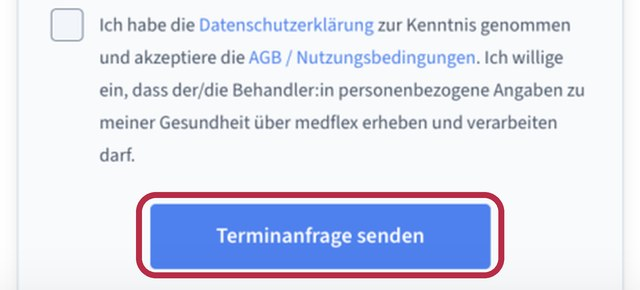
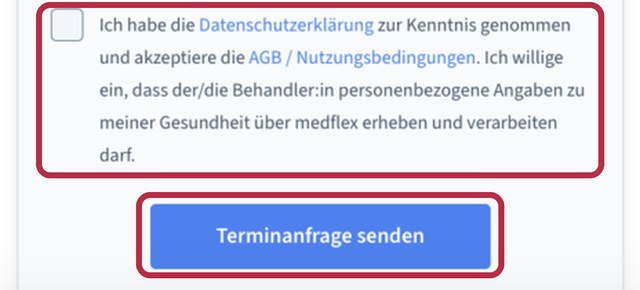
Kopf aufgeräumt, Entwurf-Hinweis oben entfernt, Haken bei AGB in den Anleitungen

diff --git a/hilfe.html b/hilfe.html
@@ -15,19 +15,17 @@
 <body>
 <a class="skip" href="#inhalt">Zum Inhalt springen</a>
 <header>
-<div class="entwurf"><div class="wrap"><strong>Entwurf.</strong> <span>Unverbindlicher Entwurf von Leon Oßendorf, kein offizieller Auftritt der MVZ Wettringen gGmbH. Formulare versenden nichts.</span></div></div>
 <div class="topbar"><div class="wrap">
   <a class="notfall" href="notfall.html">Notfall <span>112</span> Bereitschaftsdienst <span>116 117</span></a>
   <div class="werkzeuge">
-    <button type="button" id="btn-schrift" aria-pressed="false"><span class="big" aria-hidden="true">A</span> Schrift größer</button>
-    <a href="hilfe.html">Anleitungen</a>
+    <a class="tel" href="tel:+492557377"><svg viewBox="0 0 24 24" aria-hidden="true" focusable="false"><path d="M6.6 10.8a15 15 0 0 0 6.6 6.6l2.2-2.2a1 1 0 0 1 1-.25c1.1.37 2.3.57 3.6.57a1 1 0 0 1 1 1V20a1 1 0 0 1-1 1A17 17 0 0 1 3 4a1 1 0 0 1 1-1h3.5a1 1 0 0 1 1 1c0 1.25.2 2.45.57 3.57a1 1 0 0 1-.25 1L6.6 10.8z" fill="currentColor"/></svg>02557 377</a>
     <a href="leichte-sprache.html">Leichte Sprache</a>
-    <a href="karriere.html">Karriere</a>
+    <button type="button" id="btn-schrift" aria-pressed="false"><span class="big" aria-hidden="true">A</span> Schrift größer</button>
   </div>
 </div></div>
 <div class="site-header"><div class="wrap">
   <a class="brand" href="index.html"><img src="img/logo.svg" width="294" height="119" alt="MVZ Wettringen, medizinisches Versorgungszentrum Wettringen – zur Startseite"></a>
-  <nav class="site-nav" id="hauptmenue" aria-label="Hauptmenü"><ul><li><a href="index.html">Start</a></li><li><a href="sprechzeiten.html">Sprechzeiten</a></li><li><a href="termin-rezept.html">Termin &amp; Rezept</a></li><li><a href="leistungen.html">Leistungen</a></li><li><a href="team.html">Team</a></li><li><a href="karriere.html">Karriere</a></li><li><a href="ueber-uns.html">Über uns</a></li></ul></nav>
+  <nav class="site-nav" id="hauptmenue" aria-label="Hauptmenü"><ul><li><a href="index.html">Start</a></li><li><a href="sprechzeiten.html">Sprechzeiten</a></li><li><a href="termin-rezept.html">Termin &amp; Rezept</a></li><li><a href="hilfe.html" aria-current="page">Anleitungen</a></li><li><a href="leistungen.html">Leistungen</a></li><li><a href="team.html">Team</a></li><li><a href="karriere.html">Karriere</a></li><li><a href="ueber-uns.html">Über uns</a></li></ul></nav>
   <div class="aktionen">
     <a class="btn zweit" href="tel:+492557377"><svg viewBox="0 0 24 24" aria-hidden="true" focusable="false"><path d="M6.6 10.8a15 15 0 0 0 6.6 6.6l2.2-2.2a1 1 0 0 1 1-.25c1.1.37 2.3.57 3.6.57a1 1 0 0 1 1 1V20a1 1 0 0 1-1 1A17 17 0 0 1 3 4a1 1 0 0 1 1-1h3.5a1 1 0 0 1 1 1c0 1.25.2 2.45.57 3.57a1 1 0 0 1-.25 1L6.6 10.8z" fill="currentColor"/></svg>02557 377</a>
     <a class="btn" href="https://arzt.medflex.de/kontakt/hausaerztliche-versorgung-diabetologische-schwerpunktpraxis/wettringen/wettringen-mvz/v9qqqz" rel="noopener"><svg viewBox="0 0 24 24" aria-hidden="true" focusable="false"><path d="M4 4h16a1 1 0 0 1 1 1v10a1 1 0 0 1-1 1H9l-5 4V5a1 1 0 0 1 1-1z" fill="none" stroke="currentColor" stroke-width="2" stroke-linejoin="round"/></svg>Nachricht über medflex</a>
@@ -65,8 +63,8 @@
         <figure><img src="img/anleitung/a2-anliegen-waehlen.jpg" width="640" height="1020" alt="Beispielansicht: Liste mit fünf Auswahlmöglichkeiten, darunter Termin anfragen, Folgerezept anfragen und Überweisung anfragen. Die Liste und der Knopf Weiter sind markiert" loading="lazy"><figcaption>Beispielansicht: Ihr Anliegen aus der Liste antippen, dann „Weiter“.</figcaption></figure>
       </article>
       <article class="schritt">
-        <div><span class="nummer" aria-hidden="true">3</span><h3>Einmal Ihren Zugang anlegen</h3><p>Beim ersten Mal fragt medflex nach <strong>Vorname, Nachname, Geburtsdatum, Telefonnummer, E-Mail-Adresse</strong> und einem <strong>Passwort</strong> (mindestens 8 Zeichen, mit einer Zahl und einem Großbuchstaben). Haken bei der Datenschutzerklärung setzen, dann <strong>„Anfrage senden“</strong>. Das Geburtsdatum braucht das MVZ, um Sie sicher zuzuordnen.</p><p class="small leise">Tipp: Schreiben Sie sich das Passwort auf, Sie brauchen es beim nächsten Mal wieder.</p></div>
-        <figure><img src="img/anleitung/a3-zugang-anlegen.jpg" width="464" height="1024" alt="Beispielansicht: Formular mit den Feldern Vorname, Nachname, Geburtsdatum, Telefonnummer, E-Mail-Adresse und Passwort, darunter ein Haken für den Datenschutz und der Knopf zum Senden" loading="lazy"><figcaption>Beispielansicht aus der medflex-Hilfe: der Zugang in einem Schritt.</figcaption></figure>
+        <div><span class="nummer" aria-hidden="true">3</span><h3>Einmal Ihren Zugang anlegen</h3><p>Beim ersten Mal fragt medflex nach <strong>Vorname, Nachname, Geburtsdatum, Telefonnummer, E-Mail-Adresse</strong> und einem <strong>Passwort</strong> (mindestens 8 Zeichen, mit einer Zahl und einem Großbuchstaben). Setzen Sie dann den <strong>Haken bei Datenschutzerklärung und AGB</strong>. Ohne diesen Haken lässt sich die Anfrage nicht abschicken. Danach tippen Sie auf <strong>„Anfrage senden“</strong>. Das Geburtsdatum braucht das MVZ, um Sie sicher zuzuordnen.</p><p class="small leise">Tipp: Schreiben Sie sich das Passwort auf, Sie brauchen es beim nächsten Mal wieder.</p></div>
+        <figure><img src="img/anleitung/a3-zugang-anlegen.jpg" width="464" height="1024" alt="Beispielansicht: Formular mit den Feldern Vorname, Nachname, Geburtsdatum, Telefonnummer, E-Mail-Adresse und Passwort, darunter der markierte Haken für Datenschutzerklärung und AGB und der markierte Knopf zum Senden" loading="lazy"><figcaption>Beispielansicht aus der medflex-Hilfe: Haken setzen, dann abschicken.</figcaption></figure>
       </article>
       <article class="schritt">
         <div><span class="nummer" aria-hidden="true">4</span><h3>E-Mail bestätigen, fertig</h3><p>medflex schickt Ihnen eine E-Mail. Tippen Sie auf den Link darin, damit Ihr Zugang bestätigt ist. Kommt keine E-Mail, schauen Sie bitte in den Spam-Ordner.</p><p>Ihre Anfrage liegt jetzt bei uns. Wir antworten Ihnen in medflex; Sie bekommen dazu eine Nachricht per E-Mail oder in der App.</p></div>
@@ -115,8 +113,8 @@
         <figure><img src="img/anleitung/a2-termin-waehlen.jpg" width="640" height="1020" alt="Beispielansicht: Auswahl des Anliegens bei medflex, Termin anfragen / ändern und der Knopf Weiter sind markiert" loading="lazy"><figcaption>Beispielansicht: Ohne Zugang wählen Sie hier „Termin anfragen / ändern“, dann „Weiter“.</figcaption></figure>
       </article>
       <article class="schritt">
-        <div><span class="nummer" aria-hidden="true">3</span><h3>Abschicken, wir antworten mit dem Termin</h3><p>Sie bekommen den Terminvorschlag in medflex. Für Termine am selben Tag rufen Sie bitte morgens ab 7:30 Uhr oder nachmittags ab 14:30 Uhr an: <a href="tel:+492557377">02557 377</a>.</p><div class="hinweis"><p>Notfälle bitte nie über medflex. In Lebensgefahr: 112. Außerhalb der Sprechzeiten: 116 117.</p></div></div>
-        <figure><img src="img/anleitung/a8-termin-senden.jpg" width="640" height="290" alt="Beispielansicht: unten im Formular ist der Knopf Terminanfrage senden markiert" loading="lazy"><figcaption>Beispielansicht aus der medflex-Hilfe: der Knopf zum Abschicken.</figcaption></figure>
+        <div><span class="nummer" aria-hidden="true">3</span><h3>Abschicken, wir antworten mit dem Termin</h3><p>Beim ersten Mal setzen Sie vor dem Abschicken den <strong>Haken bei Datenschutzerklärung und AGB</strong>. Danach tippen Sie auf <strong>„Terminanfrage senden“</strong>. Den Terminvorschlag bekommen Sie in medflex. Für Termine am selben Tag rufen Sie bitte morgens ab 7:30 Uhr oder nachmittags ab 14:30 Uhr an: <a href="tel:+492557377">02557 377</a>.</p><div class="hinweis"><p>Notfälle bitte nie über medflex. In Lebensgefahr: 112. Außerhalb der Sprechzeiten: 116 117.</p></div></div>
+        <figure><img src="img/anleitung/a8-termin-senden.jpg" width="640" height="290" alt="Beispielansicht: unten im Formular sind der Haken für Datenschutzerklärung und AGB und der Knopf Terminanfrage senden markiert" loading="lazy"><figcaption>Beispielansicht aus der medflex-Hilfe: Haken setzen, dann abschicken.</figcaption></figure>
       </article>
     </div>
   </div>

diff --git a/css/style.css b/css/style.css
@@ -69,36 +69,38 @@ hr { border: 0; border-top: 1px solid var(--linie); margin: 2rem 0; }
 /* Kopf */
 .skip { position: absolute; left: 1rem; top: -4rem; background: var(--dunkel); color: #fff; padding: 0.6em 1em; border-radius: 0 0 var(--radius) var(--radius); z-index: 100; text-decoration: none; font-weight: 650; }
 .skip:focus { top: 0; }
-.entwurf { background: var(--greige); color: var(--text); font-size: 0.88rem; padding: 0.45rem 0; border-bottom: 1px solid var(--linie); }
-.entwurf .wrap { display: flex; gap: 0.5em; flex-wrap: wrap; }
 .topbar { background: var(--dunkel); color: #fff; font-size: 0.92rem; }
 .topbar .wrap { display: flex; flex-wrap: wrap; align-items: center; justify-content: space-between; gap: 0.3rem 1.2rem; min-height: 2.6rem; padding-block: 0.25rem; }
 .topbar a { color: #fff; }
 .topbar .notfall { display: inline-flex; align-items: center; gap: 0.6em; font-weight: 650; text-decoration: none; }
 .topbar .notfall span { background: #fff; color: var(--dunkel); border-radius: 6px; padding: 0 0.4em; font-weight: 800; }
-.topbar .werkzeuge { display: flex; flex-wrap: wrap; align-items: center; gap: 0.2rem 1.1rem; }
+.topbar .werkzeuge { display: flex; flex-wrap: wrap; align-items: center; gap: 0.2rem 1.4rem; }
+.topbar .tel { display: inline-flex; align-items: center; gap: 0.4em; font-weight: 650; text-decoration: none; }
+.topbar .tel svg { width: 1em; height: 1em; }
 .topbar button { background: transparent; border: 1px solid rgba(255,255,255,0.55); color: #fff; border-radius: 999px; padding: 0.2em 0.8em; font: inherit; cursor: pointer; display: inline-flex; align-items: center; gap: 0.4em; }
 .topbar button[aria-pressed="true"] { background: #fff; color: var(--dunkel); }
 .topbar button .big { font-family: var(--serif); font-size: 1.25em; line-height: 1; }
 .site-header { background: var(--weiss); border-bottom: 1px solid var(--linie); position: relative; z-index: 20; }
-.site-header .wrap { display: grid; grid-template-columns: auto 1fr auto; align-items: center; gap: 0.8rem 1.5rem; padding-block: 0.8rem; }
+.site-header .wrap { display: grid; grid-template-columns: auto 1fr; align-items: center; gap: 0.5rem 1.5rem; padding-block: 0.7rem 0.4rem; }
 .brand { display: block; line-height: 0; }
 .brand img { height: 64px; width: auto; }
-.site-nav ul { list-style: none; margin: 0; padding: 0; display: flex; flex-wrap: wrap; gap: 0.1rem 0.2rem; }
+.site-nav { grid-row: 2; grid-column: 1 / -1; border-top: 1px solid var(--linie); padding-top: 0.35rem; }
+.site-nav ul { list-style: none; margin: 0; padding: 0; display: flex; flex-wrap: wrap; justify-content: space-between; gap: 0.1rem 0.1rem; }
 .site-nav a { display: inline-block; padding: 0.45em 0.6em; border-radius: 8px; text-decoration: none; color: var(--text); font-weight: 560; }
 .site-nav a:hover { background: var(--greige-hell); }
 .site-nav a[aria-current="page"] { background: var(--rot-hell); color: var(--rot-text); }
 .aktionen { display: flex; gap: 0.6rem; flex-wrap: wrap; justify-content: flex-end; }
+.aktionen .zweit { display: none; }
 .nav-toggle { display: none; }
-@media (max-width: 1180px) {
-  .site-header .wrap { grid-template-columns: auto 1fr; }
-  .site-nav { grid-column: 1 / -1; border-top: 1px solid var(--linie); padding-top: 0.4rem; }
-  .site-nav ul { justify-content: flex-start; }
+@media (max-width: 1240px) {
   .brand img { height: 56px; }
 }
 @media (max-width: 720px) {
   .site-header .wrap { grid-template-columns: 1fr auto; }
+  .site-nav { grid-row: 3; border-top: 0; padding-top: 0; }
   .aktionen { grid-row: 2; grid-column: 1 / -1; justify-content: stretch; }
+  .aktionen .zweit { display: inline-flex; }
+  .topbar .tel { display: none; }
   .aktionen .btn { flex: 1 1 0; justify-content: center; font-size: 0.95rem; padding: 0.55em 0.8em; }
   .nav-toggle { display: inline-flex; align-items: center; gap: 0.5em; background: var(--weiss); border: 2px solid var(--dunkel); border-radius: 999px; padding: 0.5em 1em; font: inherit; font-weight: 650; min-height: 3rem; cursor: pointer; }
   .nav-toggle::before { content: "☰"; }
@@ -288,7 +290,7 @@ footer .entwurf-hinweis { margin-top: 1.5rem; padding-top: 1rem; border-top: 1px
 .leicht h2 { margin-top: 1.5em; }
 
 /* Druck */
-@media print { .entwurf, .topbar, .nav-toggle, .site-nav, .aktionen, .btn, footer .spalten { display: none !important; } body { background: #fff; } }
+@media print { .topbar, .nav-toggle, .site-nav, .aktionen, .btn, footer .spalten { display: none !important; } body { background: #fff; } }
 
 /* ===== Hero: das Kreuz aus Bild, rotem Balken (Titel) und grauem Balken (heute) ===== */
 .hero2 { padding: 1.5rem 0 2rem; overflow: hidden; }

diff --git a/index.html b/index.html
@@ -15,19 +15,17 @@
 <body>
 <a class="skip" href="#inhalt">Zum Inhalt springen</a>
 <header>
-<div class="entwurf"><div class="wrap"><strong>Entwurf.</strong> <span>Unverbindlicher Entwurf von Leon Oßendorf, kein offizieller Auftritt der MVZ Wettringen gGmbH. Formulare versenden nichts.</span></div></div>
 <div class="topbar"><div class="wrap">
   <a class="notfall" href="notfall.html">Notfall <span>112</span> Bereitschaftsdienst <span>116 117</span></a>
   <div class="werkzeuge">
-    <button type="button" id="btn-schrift" aria-pressed="false"><span class="big" aria-hidden="true">A</span> Schrift größer</button>
-    <a href="hilfe.html">Anleitungen</a>
+    <a class="tel" href="tel:+492557377"><svg viewBox="0 0 24 24" aria-hidden="true" focusable="false"><path d="M6.6 10.8a15 15 0 0 0 6.6 6.6l2.2-2.2a1 1 0 0 1 1-.25c1.1.37 2.3.57 3.6.57a1 1 0 0 1 1 1V20a1 1 0 0 1-1 1A17 17 0 0 1 3 4a1 1 0 0 1 1-1h3.5a1 1 0 0 1 1 1c0 1.25.2 2.45.57 3.57a1 1 0 0 1-.25 1L6.6 10.8z" fill="currentColor"/></svg>02557 377</a>
     <a href="leichte-sprache.html">Leichte Sprache</a>
-    <a href="karriere.html">Karriere</a>
+    <button type="button" id="btn-schrift" aria-pressed="false"><span class="big" aria-hidden="true">A</span> Schrift größer</button>
   </div>
 </div></div>
 <div class="site-header"><div class="wrap">
   <a class="brand" href="index.html"><img src="img/logo.svg" width="294" height="119" alt="MVZ Wettringen, medizinisches Versorgungszentrum Wettringen – zur Startseite"></a>
-  <nav class="site-nav" id="hauptmenue" aria-label="Hauptmenü"><ul><li><a href="index.html" aria-current="page">Start</a></li><li><a href="sprechzeiten.html">Sprechzeiten</a></li><li><a href="termin-rezept.html">Termin &amp; Rezept</a></li><li><a href="leistungen.html">Leistungen</a></li><li><a href="team.html">Team</a></li><li><a href="karriere.html">Karriere</a></li><li><a href="ueber-uns.html">Über uns</a></li></ul></nav>
+  <nav class="site-nav" id="hauptmenue" aria-label="Hauptmenü"><ul><li><a href="index.html" aria-current="page">Start</a></li><li><a href="sprechzeiten.html">Sprechzeiten</a></li><li><a href="termin-rezept.html">Termin &amp; Rezept</a></li><li><a href="hilfe.html">Anleitungen</a></li><li><a href="leistungen.html">Leistungen</a></li><li><a href="team.html">Team</a></li><li><a href="karriere.html">Karriere</a></li><li><a href="ueber-uns.html">Über uns</a></li></ul></nav>
   <div class="aktionen">
     <a class="btn zweit" href="tel:+492557377"><svg viewBox="0 0 24 24" aria-hidden="true" focusable="false"><path d="M6.6 10.8a15 15 0 0 0 6.6 6.6l2.2-2.2a1 1 0 0 1 1-.25c1.1.37 2.3.57 3.6.57a1 1 0 0 1 1 1V20a1 1 0 0 1-1 1A17 17 0 0 1 3 4a1 1 0 0 1 1-1h3.5a1 1 0 0 1 1 1c0 1.25.2 2.45.57 3.57a1 1 0 0 1-.25 1L6.6 10.8z" fill="currentColor"/></svg>02557 377</a>
     <a class="btn" href="https://arzt.medflex.de/kontakt/hausaerztliche-versorgung-diabetologische-schwerpunktpraxis/wettringen/wettringen-mvz/v9qqqz" rel="noopener"><svg viewBox="0 0 24 24" aria-hidden="true" focusable="false"><path d="M4 4h16a1 1 0 0 1 1 1v10a1 1 0 0 1-1 1H9l-5 4V5a1 1 0 0 1 1-1z" fill="none" stroke="currentColor" stroke-width="2" stroke-linejoin="round"/></svg>Nachricht über medflex</a>

diff --git a/karriere.html b/karriere.html
@@ -15,19 +15,17 @@
 <body>
 <a class="skip" href="#inhalt">Zum Inhalt springen</a>
 <header>
-<div class="entwurf"><div class="wrap"><strong>Entwurf.</strong> <span>Unverbindlicher Entwurf von Leon Oßendorf, kein offizieller Auftritt der MVZ Wettringen gGmbH. Formulare versenden nichts.</span></div></div>
 <div class="topbar"><div class="wrap">
   <a class="notfall" href="notfall.html">Notfall <span>112</span> Bereitschaftsdienst <span>116 117</span></a>
   <div class="werkzeuge">
-    <button type="button" id="btn-schrift" aria-pressed="false"><span class="big" aria-hidden="true">A</span> Schrift größer</button>
-    <a href="hilfe.html">Anleitungen</a>
+    <a class="tel" href="tel:+492557377"><svg viewBox="0 0 24 24" aria-hidden="true" focusable="false"><path d="M6.6 10.8a15 15 0 0 0 6.6 6.6l2.2-2.2a1 1 0 0 1 1-.25c1.1.37 2.3.57 3.6.57a1 1 0 0 1 1 1V20a1 1 0 0 1-1 1A17 17 0 0 1 3 4a1 1 0 0 1 1-1h3.5a1 1 0 0 1 1 1c0 1.25.2 2.45.57 3.57a1 1 0 0 1-.25 1L6.6 10.8z" fill="currentColor"/></svg>02557 377</a>
     <a href="leichte-sprache.html">Leichte Sprache</a>
-    <a href="karriere.html">Karriere</a>
+    <button type="button" id="btn-schrift" aria-pressed="false"><span class="big" aria-hidden="true">A</span> Schrift größer</button>
   </div>
 </div></div>
 <div class="site-header"><div class="wrap">
   <a class="brand" href="index.html"><img src="img/logo.svg" width="294" height="119" alt="MVZ Wettringen, medizinisches Versorgungszentrum Wettringen – zur Startseite"></a>
-  <nav class="site-nav" id="hauptmenue" aria-label="Hauptmenü"><ul><li><a href="index.html">Start</a></li><li><a href="sprechzeiten.html">Sprechzeiten</a></li><li><a href="termin-rezept.html">Termin &amp; Rezept</a></li><li><a href="leistungen.html">Leistungen</a></li><li><a href="team.html">Team</a></li><li><a href="karriere.html" aria-current="page">Karriere</a></li><li><a href="ueber-uns.html">Über uns</a></li></ul></nav>
+  <nav class="site-nav" id="hauptmenue" aria-label="Hauptmenü"><ul><li><a href="index.html">Start</a></li><li><a href="sprechzeiten.html">Sprechzeiten</a></li><li><a href="termin-rezept.html">Termin &amp; Rezept</a></li><li><a href="hilfe.html">Anleitungen</a></li><li><a href="leistungen.html">Leistungen</a></li><li><a href="team.html">Team</a></li><li><a href="karriere.html" aria-current="page">Karriere</a></li><li><a href="ueber-uns.html">Über uns</a></li></ul></nav>
   <div class="aktionen">
     <a class="btn zweit" href="tel:+492557377"><svg viewBox="0 0 24 24" aria-hidden="true" focusable="false"><path d="M6.6 10.8a15 15 0 0 0 6.6 6.6l2.2-2.2a1 1 0 0 1 1-.25c1.1.37 2.3.57 3.6.57a1 1 0 0 1 1 1V20a1 1 0 0 1-1 1A17 17 0 0 1 3 4a1 1 0 0 1 1-1h3.5a1 1 0 0 1 1 1c0 1.25.2 2.45.57 3.57a1 1 0 0 1-.25 1L6.6 10.8z" fill="currentColor"/></svg>02557 377</a>
     <a class="btn" href="https://arzt.medflex.de/kontakt/hausaerztliche-versorgung-diabetologische-schwerpunktpraxis/wettringen/wettringen-mvz/v9qqqz" rel="noopener"><svg viewBox="0 0 24 24" aria-hidden="true" focusable="false"><path d="M4 4h16a1 1 0 0 1 1 1v10a1 1 0 0 1-1 1H9l-5 4V5a1 1 0 0 1 1-1z" fill="none" stroke="currentColor" stroke-width="2" stroke-linejoin="round"/></svg>Nachricht über medflex</a>

diff --git a/leistungen.html b/leistungen.html
@@ -15,19 +15,17 @@
 <body>
 <a class="skip" href="#inhalt">Zum Inhalt springen</a>
 <header>
-<div class="entwurf"><div class="wrap"><strong>Entwurf.</strong> <span>Unverbindlicher Entwurf von Leon Oßendorf, kein offizieller Auftritt der MVZ Wettringen gGmbH. Formulare versenden nichts.</span></div></div>
 <div class="topbar"><div class="wrap">
   <a class="notfall" href="notfall.html">Notfall <span>112</span> Bereitschaftsdienst <span>116 117</span></a>
   <div class="werkzeuge">
-    <button type="button" id="btn-schrift" aria-pressed="false"><span class="big" aria-hidden="true">A</span> Schrift größer</button>
-    <a href="hilfe.html">Anleitungen</a>
+    <a class="tel" href="tel:+492557377"><svg viewBox="0 0 24 24" aria-hidden="true" focusable="false"><path d="M6.6 10.8a15 15 0 0 0 6.6 6.6l2.2-2.2a1 1 0 0 1 1-.25c1.1.37 2.3.57 3.6.57a1 1 0 0 1 1 1V20a1 1 0 0 1-1 1A17 17 0 0 1 3 4a1 1 0 0 1 1-1h3.5a1 1 0 0 1 1 1c0 1.25.2 2.45.57 3.57a1 1 0 0 1-.25 1L6.6 10.8z" fill="currentColor"/></svg>02557 377</a>
     <a href="leichte-sprache.html">Leichte Sprache</a>
-    <a href="karriere.html">Karriere</a>
+    <button type="button" id="btn-schrift" aria-pressed="false"><span class="big" aria-hidden="true">A</span> Schrift größer</button>
   </div>
 </div></div>
 <div class="site-header"><div class="wrap">
   <a class="brand" href="index.html"><img src="img/logo.svg" width="294" height="119" alt="MVZ Wettringen, medizinisches Versorgungszentrum Wettringen – zur Startseite"></a>
-  <nav class="site-nav" id="hauptmenue" aria-label="Hauptmenü"><ul><li><a href="index.html">Start</a></li><li><a href="sprechzeiten.html">Sprechzeiten</a></li><li><a href="termin-rezept.html">Termin &amp; Rezept</a></li><li><a href="leistungen.html" aria-current="page">Leistungen</a></li><li><a href="team.html">Team</a></li><li><a href="karriere.html">Karriere</a></li><li><a href="ueber-uns.html">Über uns</a></li></ul></nav>
+  <nav class="site-nav" id="hauptmenue" aria-label="Hauptmenü"><ul><li><a href="index.html">Start</a></li><li><a href="sprechzeiten.html">Sprechzeiten</a></li><li><a href="termin-rezept.html">Termin &amp; Rezept</a></li><li><a href="hilfe.html">Anleitungen</a></li><li><a href="leistungen.html" aria-current="page">Leistungen</a></li><li><a href="team.html">Team</a></li><li><a href="karriere.html">Karriere</a></li><li><a href="ueber-uns.html">Über uns</a></li></ul></nav>
   <div class="aktionen">
     <a class="btn zweit" href="tel:+492557377"><svg viewBox="0 0 24 24" aria-hidden="true" focusable="false"><path d="M6.6 10.8a15 15 0 0 0 6.6 6.6l2.2-2.2a1 1 0 0 1 1-.25c1.1.37 2.3.57 3.6.57a1 1 0 0 1 1 1V20a1 1 0 0 1-1 1A17 17 0 0 1 3 4a1 1 0 0 1 1-1h3.5a1 1 0 0 1 1 1c0 1.25.2 2.45.57 3.57a1 1 0 0 1-.25 1L6.6 10.8z" fill="currentColor"/></svg>02557 377</a>
     <a class="btn" href="https://arzt.medflex.de/kontakt/hausaerztliche-versorgung-diabetologische-schwerpunktpraxis/wettringen/wettringen-mvz/v9qqqz" rel="noopener"><svg viewBox="0 0 24 24" aria-hidden="true" focusable="false"><path d="M4 4h16a1 1 0 0 1 1 1v10a1 1 0 0 1-1 1H9l-5 4V5a1 1 0 0 1 1-1z" fill="none" stroke="currentColor" stroke-width="2" stroke-linejoin="round"/></svg>Nachricht über medflex</a>

diff --git a/sprechzeiten.html b/sprechzeiten.html
@@ -15,19 +15,17 @@
 <body>
 <a class="skip" href="#inhalt">Zum Inhalt springen</a>
 <header>
-<div class="entwurf"><div class="wrap"><strong>Entwurf.</strong> <span>Unverbindlicher Entwurf von Leon Oßendorf, kein offizieller Auftritt der MVZ Wettringen gGmbH. Formulare versenden nichts.</span></div></div>
 <div class="topbar"><div class="wrap">
   <a class="notfall" href="notfall.html">Notfall <span>112</span> Bereitschaftsdienst <span>116 117</span></a>
   <div class="werkzeuge">
-    <button type="button" id="btn-schrift" aria-pressed="false"><span class="big" aria-hidden="true">A</span> Schrift größer</button>
-    <a href="hilfe.html">Anleitungen</a>
+    <a class="tel" href="tel:+492557377"><svg viewBox="0 0 24 24" aria-hidden="true" focusable="false"><path d="M6.6 10.8a15 15 0 0 0 6.6 6.6l2.2-2.2a1 1 0 0 1 1-.25c1.1.37 2.3.57 3.6.57a1 1 0 0 1 1 1V20a1 1 0 0 1-1 1A17 17 0 0 1 3 4a1 1 0 0 1 1-1h3.5a1 1 0 0 1 1 1c0 1.25.2 2.45.57 3.57a1 1 0 0 1-.25 1L6.6 10.8z" fill="currentColor"/></svg>02557 377</a>
     <a href="leichte-sprache.html">Leichte Sprache</a>
-    <a href="karriere.html">Karriere</a>
+    <button type="button" id="btn-schrift" aria-pressed="false"><span class="big" aria-hidden="true">A</span> Schrift größer</button>
   </div>
 </div></div>
 <div class="site-header"><div class="wrap">
   <a class="brand" href="index.html"><img src="img/logo.svg" width="294" height="119" alt="MVZ Wettringen, medizinisches Versorgungszentrum Wettringen – zur Startseite"></a>
-  <nav class="site-nav" id="hauptmenue" aria-label="Hauptmenü"><ul><li><a href="index.html">Start</a></li><li><a href="sprechzeiten.html" aria-current="page">Sprechzeiten</a></li><li><a href="termin-rezept.html">Termin &amp; Rezept</a></li><li><a href="leistungen.html">Leistungen</a></li><li><a href="team.html">Team</a></li><li><a href="karriere.html">Karriere</a></li><li><a href="ueber-uns.html">Über uns</a></li></ul></nav>
+  <nav class="site-nav" id="hauptmenue" aria-label="Hauptmenü"><ul><li><a href="index.html">Start</a></li><li><a href="sprechzeiten.html" aria-current="page">Sprechzeiten</a></li><li><a href="termin-rezept.html">Termin &amp; Rezept</a></li><li><a href="hilfe.html">Anleitungen</a></li><li><a href="leistungen.html">Leistungen</a></li><li><a href="team.html">Team</a></li><li><a href="karriere.html">Karriere</a></li><li><a href="ueber-uns.html">Über uns</a></li></ul></nav>
   <div class="aktionen">
     <a class="btn zweit" href="tel:+492557377"><svg viewBox="0 0 24 24" aria-hidden="true" focusable="false"><path d="M6.6 10.8a15 15 0 0 0 6.6 6.6l2.2-2.2a1 1 0 0 1 1-.25c1.1.37 2.3.57 3.6.57a1 1 0 0 1 1 1V20a1 1 0 0 1-1 1A17 17 0 0 1 3 4a1 1 0 0 1 1-1h3.5a1 1 0 0 1 1 1c0 1.25.2 2.45.57 3.57a1 1 0 0 1-.25 1L6.6 10.8z" fill="currentColor"/></svg>02557 377</a>
     <a class="btn" href="https://arzt.medflex.de/kontakt/hausaerztliche-versorgung-diabetologische-schwerpunktpraxis/wettringen/wettringen-mvz/v9qqqz" rel="noopener"><svg viewBox="0 0 24 24" aria-hidden="true" focusable="false"><path d="M4 4h16a1 1 0 0 1 1 1v10a1 1 0 0 1-1 1H9l-5 4V5a1 1 0 0 1 1-1z" fill="none" stroke="currentColor" stroke-width="2" stroke-linejoin="round"/></svg>Nachricht über medflex</a>

diff --git a/team.html b/team.html
@@ -15,19 +15,17 @@
 <body>
 <a class="skip" href="#inhalt">Zum Inhalt springen</a>
 <header>
-<div class="entwurf"><div class="wrap"><strong>Entwurf.</strong> <span>Unverbindlicher Entwurf von Leon Oßendorf, kein offizieller Auftritt der MVZ Wettringen gGmbH. Formulare versenden nichts.</span></div></div>
 <div class="topbar"><div class="wrap">
   <a class="notfall" href="notfall.html">Notfall <span>112</span> Bereitschaftsdienst <span>116 117</span></a>
   <div class="werkzeuge">
-    <button type="button" id="btn-schrift" aria-pressed="false"><span class="big" aria-hidden="true">A</span> Schrift größer</button>
-    <a href="hilfe.html">Anleitungen</a>
+    <a class="tel" href="tel:+492557377"><svg viewBox="0 0 24 24" aria-hidden="true" focusable="false"><path d="M6.6 10.8a15 15 0 0 0 6.6 6.6l2.2-2.2a1 1 0 0 1 1-.25c1.1.37 2.3.57 3.6.57a1 1 0 0 1 1 1V20a1 1 0 0 1-1 1A17 17 0 0 1 3 4a1 1 0 0 1 1-1h3.5a1 1 0 0 1 1 1c0 1.25.2 2.45.57 3.57a1 1 0 0 1-.25 1L6.6 10.8z" fill="currentColor"/></svg>02557 377</a>
     <a href="leichte-sprache.html">Leichte Sprache</a>
-    <a href="karriere.html">Karriere</a>
+    <button type="button" id="btn-schrift" aria-pressed="false"><span class="big" aria-hidden="true">A</span> Schrift größer</button>
   </div>
 </div></div>
 <div class="site-header"><div class="wrap">
   <a class="brand" href="index.html"><img src="img/logo.svg" width="294" height="119" alt="MVZ Wettringen, medizinisches Versorgungszentrum Wettringen – zur Startseite"></a>
-  <nav class="site-nav" id="hauptmenue" aria-label="Hauptmenü"><ul><li><a href="index.html">Start</a></li><li><a href="sprechzeiten.html">Sprechzeiten</a></li><li><a href="termin-rezept.html">Termin &amp; Rezept</a></li><li><a href="leistungen.html">Leistungen</a></li><li><a href="team.html" aria-current="page">Team</a></li><li><a href="karriere.html">Karriere</a></li><li><a href="ueber-uns.html">Über uns</a></li></ul></nav>
+  <nav class="site-nav" id="hauptmenue" aria-label="Hauptmenü"><ul><li><a href="index.html">Start</a></li><li><a href="sprechzeiten.html">Sprechzeiten</a></li><li><a href="termin-rezept.html">Termin &amp; Rezept</a></li><li><a href="hilfe.html">Anleitungen</a></li><li><a href="leistungen.html">Leistungen</a></li><li><a href="team.html" aria-current="page">Team</a></li><li><a href="karriere.html">Karriere</a></li><li><a href="ueber-uns.html">Über uns</a></li></ul></nav>
   <div class="aktionen">
     <a class="btn zweit" href="tel:+492557377"><svg viewBox="0 0 24 24" aria-hidden="true" focusable="false"><path d="M6.6 10.8a15 15 0 0 0 6.6 6.6l2.2-2.2a1 1 0 0 1 1-.25c1.1.37 2.3.57 3.6.57a1 1 0 0 1 1 1V20a1 1 0 0 1-1 1A17 17 0 0 1 3 4a1 1 0 0 1 1-1h3.5a1 1 0 0 1 1 1c0 1.25.2 2.45.57 3.57a1 1 0 0 1-.25 1L6.6 10.8z" fill="currentColor"/></svg>02557 377</a>
     <a class="btn" href="https://arzt.medflex.de/kontakt/hausaerztliche-versorgung-diabetologische-schwerpunktpraxis/wettringen/wettringen-mvz/v9qqqz" rel="noopener"><svg viewBox="0 0 24 24" aria-hidden="true" focusable="false"><path d="M4 4h16a1 1 0 0 1 1 1v10a1 1 0 0 1-1 1H9l-5 4V5a1 1 0 0 1 1-1z" fill="none" stroke="currentColor" stroke-width="2" stroke-linejoin="round"/></svg>Nachricht über medflex</a>

diff --git a/termin-rezept.html b/termin-rezept.html
@@ -15,19 +15,17 @@
 <body>
 <a class="skip" href="#inhalt">Zum Inhalt springen</a>
 <header>
-<div class="entwurf"><div class="wrap"><strong>Entwurf.</strong> <span>Unverbindlicher Entwurf von Leon Oßendorf, kein offizieller Auftritt der MVZ Wettringen gGmbH. Formulare versenden nichts.</span></div></div>
 <div class="topbar"><div class="wrap">
   <a class="notfall" href="notfall.html">Notfall <span>112</span> Bereitschaftsdienst <span>116 117</span></a>
   <div class="werkzeuge">
-    <button type="button" id="btn-schrift" aria-pressed="false"><span class="big" aria-hidden="true">A</span> Schrift größer</button>
-    <a href="hilfe.html">Anleitungen</a>
+    <a class="tel" href="tel:+492557377"><svg viewBox="0 0 24 24" aria-hidden="true" focusable="false"><path d="M6.6 10.8a15 15 0 0 0 6.6 6.6l2.2-2.2a1 1 0 0 1 1-.25c1.1.37 2.3.57 3.6.57a1 1 0 0 1 1 1V20a1 1 0 0 1-1 1A17 17 0 0 1 3 4a1 1 0 0 1 1-1h3.5a1 1 0 0 1 1 1c0 1.25.2 2.45.57 3.57a1 1 0 0 1-.25 1L6.6 10.8z" fill="currentColor"/></svg>02557 377</a>
     <a href="leichte-sprache.html">Leichte Sprache</a>
-    <a href="karriere.html">Karriere</a>
+    <button type="button" id="btn-schrift" aria-pressed="false"><span class="big" aria-hidden="true">A</span> Schrift größer</button>
   </div>
 </div></div>
 <div class="site-header"><div class="wrap">
   <a class="brand" href="index.html"><img src="img/logo.svg" width="294" height="119" alt="MVZ Wettringen, medizinisches Versorgungszentrum Wettringen – zur Startseite"></a>
-  <nav class="site-nav" id="hauptmenue" aria-label="Hauptmenü"><ul><li><a href="index.html">Start</a></li><li><a href="sprechzeiten.html">Sprechzeiten</a></li><li><a href="termin-rezept.html" aria-current="page">Termin &amp; Rezept</a></li><li><a href="leistungen.html">Leistungen</a></li><li><a href="team.html">Team</a></li><li><a href="karriere.html">Karriere</a></li><li><a href="ueber-uns.html">Über uns</a></li></ul></nav>
+  <nav class="site-nav" id="hauptmenue" aria-label="Hauptmenü"><ul><li><a href="index.html">Start</a></li><li><a href="sprechzeiten.html">Sprechzeiten</a></li><li><a href="termin-rezept.html" aria-current="page">Termin &amp; Rezept</a></li><li><a href="hilfe.html">Anleitungen</a></li><li><a href="leistungen.html">Leistungen</a></li><li><a href="team.html">Team</a></li><li><a href="karriere.html">Karriere</a></li><li><a href="ueber-uns.html">Über uns</a></li></ul></nav>
   <div class="aktionen">
     <a class="btn zweit" href="tel:+492557377"><svg viewBox="0 0 24 24" aria-hidden="true" focusable="false"><path d="M6.6 10.8a15 15 0 0 0 6.6 6.6l2.2-2.2a1 1 0 0 1 1-.25c1.1.37 2.3.57 3.6.57a1 1 0 0 1 1 1V20a1 1 0 0 1-1 1A17 17 0 0 1 3 4a1 1 0 0 1 1-1h3.5a1 1 0 0 1 1 1c0 1.25.2 2.45.57 3.57a1 1 0 0 1-.25 1L6.6 10.8z" fill="currentColor"/></svg>02557 377</a>
     <a class="btn" href="https://arzt.medflex.de/kontakt/hausaerztliche-versorgung-diabetologische-schwerpunktpraxis/wettringen/wettringen-mvz/v9qqqz" rel="noopener"><svg viewBox="0 0 24 24" aria-hidden="true" focusable="false"><path d="M4 4h16a1 1 0 0 1 1 1v10a1 1 0 0 1-1 1H9l-5 4V5a1 1 0 0 1 1-1z" fill="none" stroke="currentColor" stroke-width="2" stroke-linejoin="round"/></svg>Nachricht über medflex</a>

diff --git a/ueber-uns.html b/ueber-uns.html
@@ -15,19 +15,17 @@
 <body>
 <a class="skip" href="#inhalt">Zum Inhalt springen</a>
 <header>
-<div class="entwurf"><div class="wrap"><strong>Entwurf.</strong> <span>Unverbindlicher Entwurf von Leon Oßendorf, kein offizieller Auftritt der MVZ Wettringen gGmbH. Formulare versenden nichts.</span></div></div>
 <div class="topbar"><div class="wrap">
   <a class="notfall" href="notfall.html">Notfall <span>112</span> Bereitschaftsdienst <span>116 117</span></a>
   <div class="werkzeuge">
-    <button type="button" id="btn-schrift" aria-pressed="false"><span class="big" aria-hidden="true">A</span> Schrift größer</button>
-    <a href="hilfe.html">Anleitungen</a>
+    <a class="tel" href="tel:+492557377"><svg viewBox="0 0 24 24" aria-hidden="true" focusable="false"><path d="M6.6 10.8a15 15 0 0 0 6.6 6.6l2.2-2.2a1 1 0 0 1 1-.25c1.1.37 2.3.57 3.6.57a1 1 0 0 1 1 1V20a1 1 0 0 1-1 1A17 17 0 0 1 3 4a1 1 0 0 1 1-1h3.5a1 1 0 0 1 1 1c0 1.25.2 2.45.57 3.57a1 1 0 0 1-.25 1L6.6 10.8z" fill="currentColor"/></svg>02557 377</a>
     <a href="leichte-sprache.html">Leichte Sprache</a>
-    <a href="karriere.html">Karriere</a>
+    <button type="button" id="btn-schrift" aria-pressed="false"><span class="big" aria-hidden="true">A</span> Schrift größer</button>
   </div>
 </div></div>
 <div class="site-header"><div class="wrap">
   <a class="brand" href="index.html"><img src="img/logo.svg" width="294" height="119" alt="MVZ Wettringen, medizinisches Versorgungszentrum Wettringen – zur Startseite"></a>
-  <nav class="site-nav" id="hauptmenue" aria-label="Hauptmenü"><ul><li><a href="index.html">Start</a></li><li><a href="sprechzeiten.html">Sprechzeiten</a></li><li><a href="termin-rezept.html">Termin &amp; Rezept</a></li><li><a href="leistungen.html">Leistungen</a></li><li><a href="team.html">Team</a></li><li><a href="karriere.html">Karriere</a></li><li><a href="ueber-uns.html" aria-current="page">Über uns</a></li></ul></nav>
+  <nav class="site-nav" id="hauptmenue" aria-label="Hauptmenü"><ul><li><a href="index.html">Start</a></li><li><a href="sprechzeiten.html">Sprechzeiten</a></li><li><a href="termin-rezept.html">Termin &amp; Rezept</a></li><li><a href="hilfe.html">Anleitungen</a></li><li><a href="leistungen.html">Leistungen</a></li><li><a href="team.html">Team</a></li><li><a href="karriere.html">Karriere</a></li><li><a href="ueber-uns.html" aria-current="page">Über uns</a></li></ul></nav>
   <div class="aktionen">
     <a class="btn zweit" href="tel:+492557377"><svg viewBox="0 0 24 24" aria-hidden="true" focusable="false"><path d="M6.6 10.8a15 15 0 0 0 6.6 6.6l2.2-2.2a1 1 0 0 1 1-.25c1.1.37 2.3.57 3.6.57a1 1 0 0 1 1 1V20a1 1 0 0 1-1 1A17 17 0 0 1 3 4a1 1 0 0 1 1-1h3.5a1 1 0 0 1 1 1c0 1.25.2 2.45.57 3.57a1 1 0 0 1-.25 1L6.6 10.8z" fill="currentColor"/></svg>02557 377</a>
     <a class="btn" href="https://arzt.medflex.de/kontakt/hausaerztliche-versorgung-diabetologische-schwerpunktpraxis/wettringen/wettringen-mvz/v9qqqz" rel="noopener"><svg viewBox="0 0 24 24" aria-hidden="true" focusable="false"><path d="M4 4h16a1 1 0 0 1 1 1v10a1 1 0 0 1-1 1H9l-5 4V5a1 1 0 0 1 1-1z" fill="none" stroke="currentColor" stroke-width="2" stroke-linejoin="round"/></svg>Nachricht über medflex</a>

diff --git a/aktuelles.html b/aktuelles.html
@@ -15,19 +15,17 @@
 <body>
 <a class="skip" href="#inhalt">Zum Inhalt springen</a>
 <header>
-<div class="entwurf"><div class="wrap"><strong>Entwurf.</strong> <span>Unverbindlicher Entwurf von Leon Oßendorf, kein offizieller Auftritt der MVZ Wettringen gGmbH. Formulare versenden nichts.</span></div></div>
 <div class="topbar"><div class="wrap">
   <a class="notfall" href="notfall.html">Notfall <span>112</span> Bereitschaftsdienst <span>116 117</span></a>
   <div class="werkzeuge">
-    <button type="button" id="btn-schrift" aria-pressed="false"><span class="big" aria-hidden="true">A</span> Schrift größer</button>
-    <a href="hilfe.html">Anleitungen</a>
+    <a class="tel" href="tel:+492557377"><svg viewBox="0 0 24 24" aria-hidden="true" focusable="false"><path d="M6.6 10.8a15 15 0 0 0 6.6 6.6l2.2-2.2a1 1 0 0 1 1-.25c1.1.37 2.3.57 3.6.57a1 1 0 0 1 1 1V20a1 1 0 0 1-1 1A17 17 0 0 1 3 4a1 1 0 0 1 1-1h3.5a1 1 0 0 1 1 1c0 1.25.2 2.45.57 3.57a1 1 0 0 1-.25 1L6.6 10.8z" fill="currentColor"/></svg>02557 377</a>
     <a href="leichte-sprache.html">Leichte Sprache</a>
-    <a href="karriere.html">Karriere</a>
+    <button type="button" id="btn-schrift" aria-pressed="false"><span class="big" aria-hidden="true">A</span> Schrift größer</button>
   </div>
 </div></div>
 <div class="site-header"><div class="wrap">
   <a class="brand" href="index.html"><img src="img/logo.svg" width="294" height="119" alt="MVZ Wettringen, medizinisches Versorgungszentrum Wettringen – zur Startseite"></a>
-  <nav class="site-nav" id="hauptmenue" aria-label="Hauptmenü"><ul><li><a href="index.html">Start</a></li><li><a href="sprechzeiten.html">Sprechzeiten</a></li><li><a href="termin-rezept.html">Termin &amp; Rezept</a></li><li><a href="leistungen.html">Leistungen</a></li><li><a href="team.html">Team</a></li><li><a href="karriere.html">Karriere</a></li><li><a href="ueber-uns.html">Über uns</a></li></ul></nav>
+  <nav class="site-nav" id="hauptmenue" aria-label="Hauptmenü"><ul><li><a href="index.html">Start</a></li><li><a href="sprechzeiten.html">Sprechzeiten</a></li><li><a href="termin-rezept.html">Termin &amp; Rezept</a></li><li><a href="hilfe.html">Anleitungen</a></li><li><a href="leistungen.html">Leistungen</a></li><li><a href="team.html">Team</a></li><li><a href="karriere.html">Karriere</a></li><li><a href="ueber-uns.html">Über uns</a></li></ul></nav>
   <div class="aktionen">
     <a class="btn zweit" href="tel:+492557377"><svg viewBox="0 0 24 24" aria-hidden="true" focusable="false"><path d="M6.6 10.8a15 15 0 0 0 6.6 6.6l2.2-2.2a1 1 0 0 1 1-.25c1.1.37 2.3.57 3.6.57a1 1 0 0 1 1 1V20a1 1 0 0 1-1 1A17 17 0 0 1 3 4a1 1 0 0 1 1-1h3.5a1 1 0 0 1 1 1c0 1.25.2 2.45.57 3.57a1 1 0 0 1-.25 1L6.6 10.8z" fill="currentColor"/></svg>02557 377</a>
     <a class="btn" href="https://arzt.medflex.de/kontakt/hausaerztliche-versorgung-diabetologische-schwerpunktpraxis/wettringen/wettringen-mvz/v9qqqz" rel="noopener"><svg viewBox="0 0 24 24" aria-hidden="true" focusable="false"><path d="M4 4h16a1 1 0 0 1 1 1v10a1 1 0 0 1-1 1H9l-5 4V5a1 1 0 0 1 1-1z" fill="none" stroke="currentColor" stroke-width="2" stroke-linejoin="round"/></svg>Nachricht über medflex</a>

diff --git a/barrierefreiheit.html b/barrierefreiheit.html
@@ -15,19 +15,17 @@
 <body>
 <a class="skip" href="#inhalt">Zum Inhalt springen</a>
 <header>
-<div class="entwurf"><div class="wrap"><strong>Entwurf.</strong> <span>Unverbindlicher Entwurf von Leon Oßendorf, kein offizieller Auftritt der MVZ Wettringen gGmbH. Formulare versenden nichts.</span></div></div>
 <div class="topbar"><div class="wrap">
   <a class="notfall" href="notfall.html">Notfall <span>112</span> Bereitschaftsdienst <span>116 117</span></a>
   <div class="werkzeuge">
-    <button type="button" id="btn-schrift" aria-pressed="false"><span class="big" aria-hidden="true">A</span> Schrift größer</button>
-    <a href="hilfe.html">Anleitungen</a>
+    <a class="tel" href="tel:+492557377"><svg viewBox="0 0 24 24" aria-hidden="true" focusable="false"><path d="M6.6 10.8a15 15 0 0 0 6.6 6.6l2.2-2.2a1 1 0 0 1 1-.25c1.1.37 2.3.57 3.6.57a1 1 0 0 1 1 1V20a1 1 0 0 1-1 1A17 17 0 0 1 3 4a1 1 0 0 1 1-1h3.5a1 1 0 0 1 1 1c0 1.25.2 2.45.57 3.57a1 1 0 0 1-.25 1L6.6 10.8z" fill="currentColor"/></svg>02557 377</a>
     <a href="leichte-sprache.html">Leichte Sprache</a>
-    <a href="karriere.html">Karriere</a>
+    <button type="button" id="btn-schrift" aria-pressed="false"><span class="big" aria-hidden="true">A</span> Schrift größer</button>
   </div>
 </div></div>
 <div class="site-header"><div class="wrap">
   <a class="brand" href="index.html"><img src="img/logo.svg" width="294" height="119" alt="MVZ Wettringen, medizinisches Versorgungszentrum Wettringen – zur Startseite"></a>
-  <nav class="site-nav" id="hauptmenue" aria-label="Hauptmenü"><ul><li><a href="index.html">Start</a></li><li><a href="sprechzeiten.html">Sprechzeiten</a></li><li><a href="termin-rezept.html">Termin &amp; Rezept</a></li><li><a href="leistungen.html">Leistungen</a></li><li><a href="team.html">Team</a></li><li><a href="karriere.html">Karriere</a></li><li><a href="ueber-uns.html">Über uns</a></li></ul></nav>
+  <nav class="site-nav" id="hauptmenue" aria-label="Hauptmenü"><ul><li><a href="index.html">Start</a></li><li><a href="sprechzeiten.html">Sprechzeiten</a></li><li><a href="termin-rezept.html">Termin &amp; Rezept</a></li><li><a href="hilfe.html">Anleitungen</a></li><li><a href="leistungen.html">Leistungen</a></li><li><a href="team.html">Team</a></li><li><a href="karriere.html">Karriere</a></li><li><a href="ueber-uns.html">Über uns</a></li></ul></nav>
   <div class="aktionen">
     <a class="btn zweit" href="tel:+492557377"><svg viewBox="0 0 24 24" aria-hidden="true" focusable="false"><path d="M6.6 10.8a15 15 0 0 0 6.6 6.6l2.2-2.2a1 1 0 0 1 1-.25c1.1.37 2.3.57 3.6.57a1 1 0 0 1 1 1V20a1 1 0 0 1-1 1A17 17 0 0 1 3 4a1 1 0 0 1 1-1h3.5a1 1 0 0 1 1 1c0 1.25.2 2.45.57 3.57a1 1 0 0 1-.25 1L6.6 10.8z" fill="currentColor"/></svg>02557 377</a>
     <a class="btn" href="https://arzt.medflex.de/kontakt/hausaerztliche-versorgung-diabetologische-schwerpunktpraxis/wettringen/wettringen-mvz/v9qqqz" rel="noopener"><svg viewBox="0 0 24 24" aria-hidden="true" focusable="false"><path d="M4 4h16a1 1 0 0 1 1 1v10a1 1 0 0 1-1 1H9l-5 4V5a1 1 0 0 1 1-1z" fill="none" stroke="currentColor" stroke-width="2" stroke-linejoin="round"/></svg>Nachricht über medflex</a>

diff --git a/datenschutz.html b/datenschutz.html
@@ -15,19 +15,17 @@
 <body>
 <a class="skip" href="#inhalt">Zum Inhalt springen</a>
 <header>
-<div class="entwurf"><div class="wrap"><strong>Entwurf.</strong> <span>Unverbindlicher Entwurf von Leon Oßendorf, kein offizieller Auftritt der MVZ Wettringen gGmbH. Formulare versenden nichts.</span></div></div>
 <div class="topbar"><div class="wrap">
   <a class="notfall" href="notfall.html">Notfall <span>112</span> Bereitschaftsdienst <span>116 117</span></a>
   <div class="werkzeuge">
-    <button type="button" id="btn-schrift" aria-pressed="false"><span class="big" aria-hidden="true">A</span> Schrift größer</button>
-    <a href="hilfe.html">Anleitungen</a>
+    <a class="tel" href="tel:+492557377"><svg viewBox="0 0 24 24" aria-hidden="true" focusable="false"><path d="M6.6 10.8a15 15 0 0 0 6.6 6.6l2.2-2.2a1 1 0 0 1 1-.25c1.1.37 2.3.57 3.6.57a1 1 0 0 1 1 1V20a1 1 0 0 1-1 1A17 17 0 0 1 3 4a1 1 0 0 1 1-1h3.5a1 1 0 0 1 1 1c0 1.25.2 2.45.57 3.57a1 1 0 0 1-.25 1L6.6 10.8z" fill="currentColor"/></svg>02557 377</a>
     <a href="leichte-sprache.html">Leichte Sprache</a>
-    <a href="karriere.html">Karriere</a>
+    <button type="button" id="btn-schrift" aria-pressed="false"><span class="big" aria-hidden="true">A</span> Schrift größer</button>
   </div>
 </div></div>
 <div class="site-header"><div class="wrap">
   <a class="brand" href="index.html"><img src="img/logo.svg" width="294" height="119" alt="MVZ Wettringen, medizinisches Versorgungszentrum Wettringen – zur Startseite"></a>
-  <nav class="site-nav" id="hauptmenue" aria-label="Hauptmenü"><ul><li><a href="index.html">Start</a></li><li><a href="sprechzeiten.html">Sprechzeiten</a></li><li><a href="termin-rezept.html">Termin &amp; Rezept</a></li><li><a href="leistungen.html">Leistungen</a></li><li><a href="team.html">Team</a></li><li><a href="karriere.html">Karriere</a></li><li><a href="ueber-uns.html">Über uns</a></li></ul></nav>
+  <nav class="site-nav" id="hauptmenue" aria-label="Hauptmenü"><ul><li><a href="index.html">Start</a></li><li><a href="sprechzeiten.html">Sprechzeiten</a></li><li><a href="termin-rezept.html">Termin &amp; Rezept</a></li><li><a href="hilfe.html">Anleitungen</a></li><li><a href="leistungen.html">Leistungen</a></li><li><a href="team.html">Team</a></li><li><a href="karriere.html">Karriere</a></li><li><a href="ueber-uns.html">Über uns</a></li></ul></nav>
   <div class="aktionen">
     <a class="btn zweit" href="tel:+492557377"><svg viewBox="0 0 24 24" aria-hidden="true" focusable="false"><path d="M6.6 10.8a15 15 0 0 0 6.6 6.6l2.2-2.2a1 1 0 0 1 1-.25c1.1.37 2.3.57 3.6.57a1 1 0 0 1 1 1V20a1 1 0 0 1-1 1A17 17 0 0 1 3 4a1 1 0 0 1 1-1h3.5a1 1 0 0 1 1 1c0 1.25.2 2.45.57 3.57a1 1 0 0 1-.25 1L6.6 10.8z" fill="currentColor"/></svg>02557 377</a>
     <a class="btn" href="https://arzt.medflex.de/kontakt/hausaerztliche-versorgung-diabetologische-schwerpunktpraxis/wettringen/wettringen-mvz/v9qqqz" rel="noopener"><svg viewBox="0 0 24 24" aria-hidden="true" focusable="false"><path d="M4 4h16a1 1 0 0 1 1 1v10a1 1 0 0 1-1 1H9l-5 4V5a1 1 0 0 1 1-1z" fill="none" stroke="currentColor" stroke-width="2" stroke-linejoin="round"/></svg>Nachricht über medflex</a>
